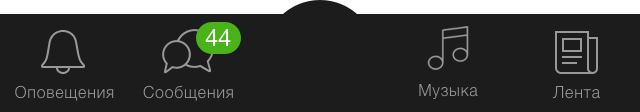
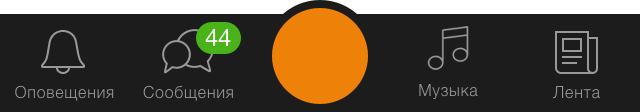
ееее

Changed region(s): [[0.4062, 0.0536, 0.5938, 0.9375]]

diff --git a/index.html b/index.html
@@ -131,7 +131,7 @@
         <div class="button" onclick="javaScript:gotoPage();"> <!-- кнопка с переменной ссылкой -->
             <div id="u330-wrapper">
                 <div class="setScenario" id="gyrocolor"><!-- image -->
-                    <img id="photo" data-image-width="218" data-image-height="218"/>
+                    <img id="wand" data-image-width="218" data-image-height="218"/>
                 </div>
             </div>
         </div>

diff --git a/css/index.css b/css/index.css
@@ -100,7 +100,7 @@
 	max-width: 218px;
 }
 #photo {
-    content:url(../images/photo.png);
+    content:url(../images/photo_b.png);
    	background-color: transparent;
 	position: relative;
 	left: -50%;
@@ -108,8 +108,8 @@
 	width: 100%;
 	max-width: 218px;
 }
-#video {
-    content:url(../images/video.png);
+#wand {
+    content:url(../images/wand.gif);
    	background-color: transparent;
 	position: relative;
 	left: -50%;
